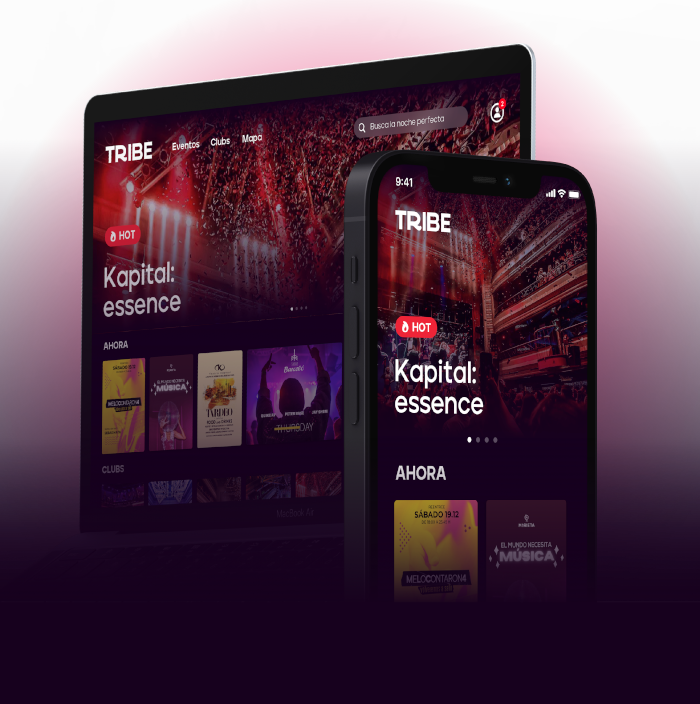
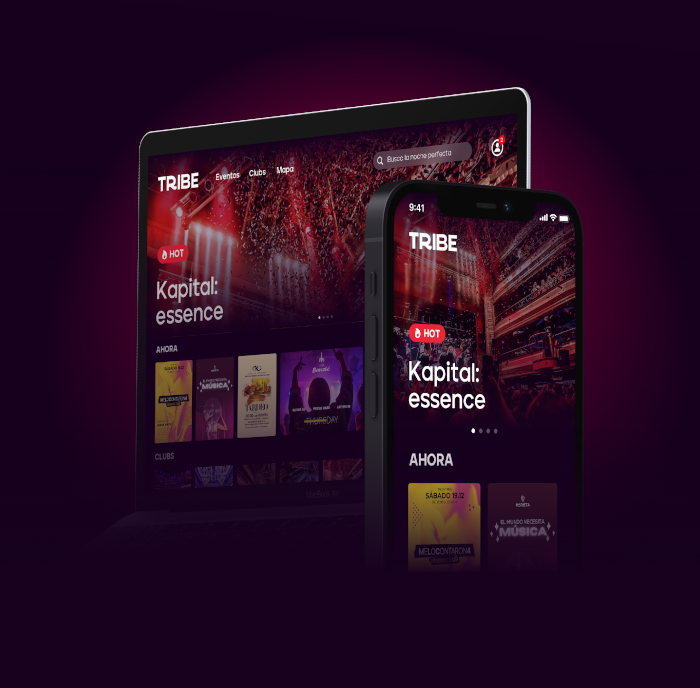
Minor changes

diff --git a/site/src/App.js b/site/src/App.js
@@ -11,7 +11,10 @@ function App() {
   const form = Form.useForm();
   const onFinish = async (form) => {
     let error = false;
-    axios.post('http://34.228.25.223:8080/api/support/contact', form).catch((err) => {error= true; message.error("Vaya algo, a salido mal por favor recargue la página e inténtelo de nuevo.")})
+    axios.post('http://34.228.25.223:3001/api/support/contact', form).catch((err) => {error= true; message.error("Vaya algo, a salido mal por favor recargue la página e inténtelo de nuevo.")})
+    if(!error){
+      message.success("Mensaje enviado, revisa tu correo.")
+    }
   }
   return (
     <div className="App">
@@ -60,7 +63,7 @@ function App() {
               Utilizamos la información de compra a tiempo real para desarrollar una herramienta de venue management que informa sobre la clientela presente y permite realizar cambios para perfeccionar su experiencia con un diseño intuitivo y sencillo.                            </Text>
             </Col>
         </Row>
-        <Row justify="center mt-5">
+        <Row justify="center mt-20">
           <Col xs={24}>
           <div className="d-lg-none">
             <Carousel>
@@ -123,7 +126,7 @@ function App() {
               </Text>
             </Col>
         </Row>
-        <Row className="mt-5" justify="center" >
+        <Row className="mt-20" justify="center" >
           <Col xs={24}>
           <div className="d-block d-md-none">
 

diff --git a/site/src/App.css b/site/src/App.css
@@ -2,7 +2,7 @@ html {
   scroll-behavior: smooth!important;
 }
 body{
-  background-color: #14021D!important;
+  background-color: #17011e!important;
   color: #ffffff!important;
   float: none;
   margin: 0;
@@ -27,7 +27,7 @@ h1,h2{
 }
 
 #header{
-  background-color: #14021D;
+  background-color: #17011e;
   /* background-image: linear-gradient(to bottom, rgba(20, 2, 29,0),rgba(20,2,29,1)),url('/images/banner3.png'); */
   background-repeat: no-repeat;
   background-size: cover;
@@ -36,6 +36,9 @@ h1,h2{
 }
 .mt-20{
   margin-top: 10rem;
+}
+.mt-10{
+  margin-top: 5rem;
 }
 .customNav{
   background: linear-gradient(to bottom, rgba(20,2,29,1),rgba(20,2,29,0.4),rgba(20,2,29,0));
@@ -95,7 +98,7 @@ h1,h2{
   }
 
 .contactCard{
-  background-color: #1b1b1b;
+  background-color: #200e2b;
   border-radius: 20px;
   padding: 20px;
 }
